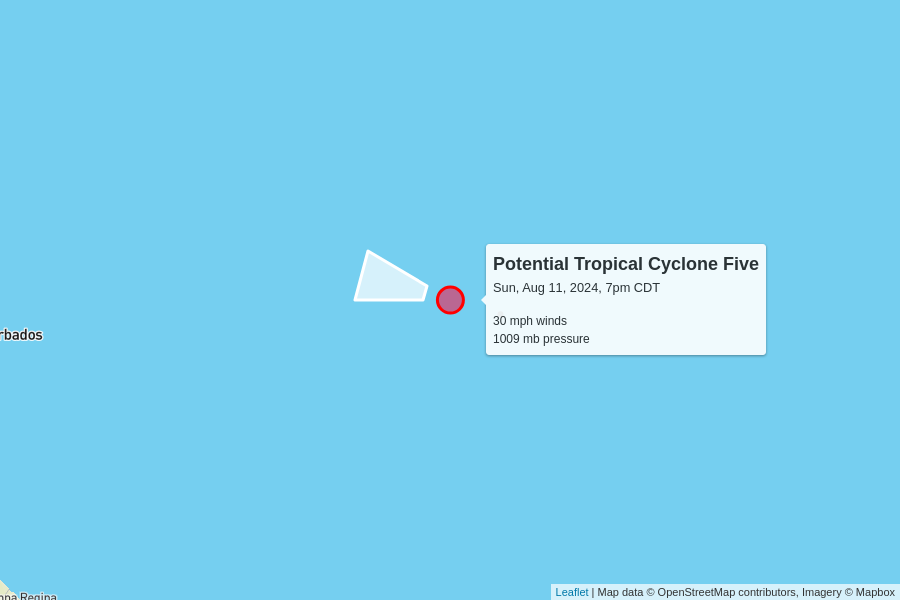
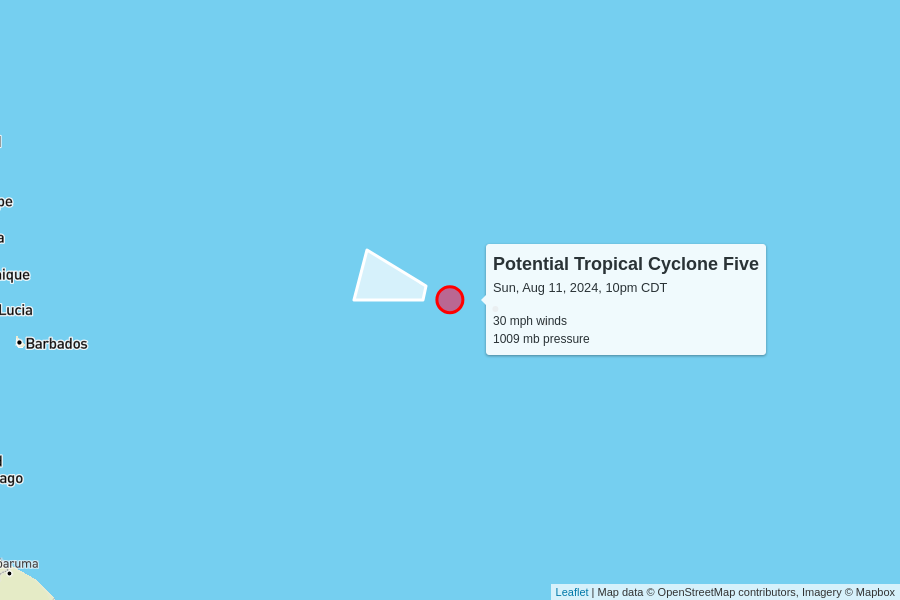
automatic update

diff --git a/docs/index.html b/docs/index.html
@@ -102,7 +102,7 @@
         <td colspan="6" class="storm category-0" >
           <h2>
             Potential Tropical Cyclone Five
-            <p class="updated">last updated <span data-time>2024-08-12T00:00:00.000Z</span></p>
+            <p class="updated">last updated <span data-time>2024-08-12T03:00:00.000Z</span></p>
           </h2>
         </td>
       </tr>
@@ -118,7 +118,7 @@
       <tr>
         <td class="spacer"></td>
         <td>30 mph<br>0 mph since last update</td>
-        <td>1009 mb<br>-1 mb since last update</td>
+        <td>1009 mb<br>0 mb since last update</td>
         <td>
           23 mph to the west-northwest
           <br/>
